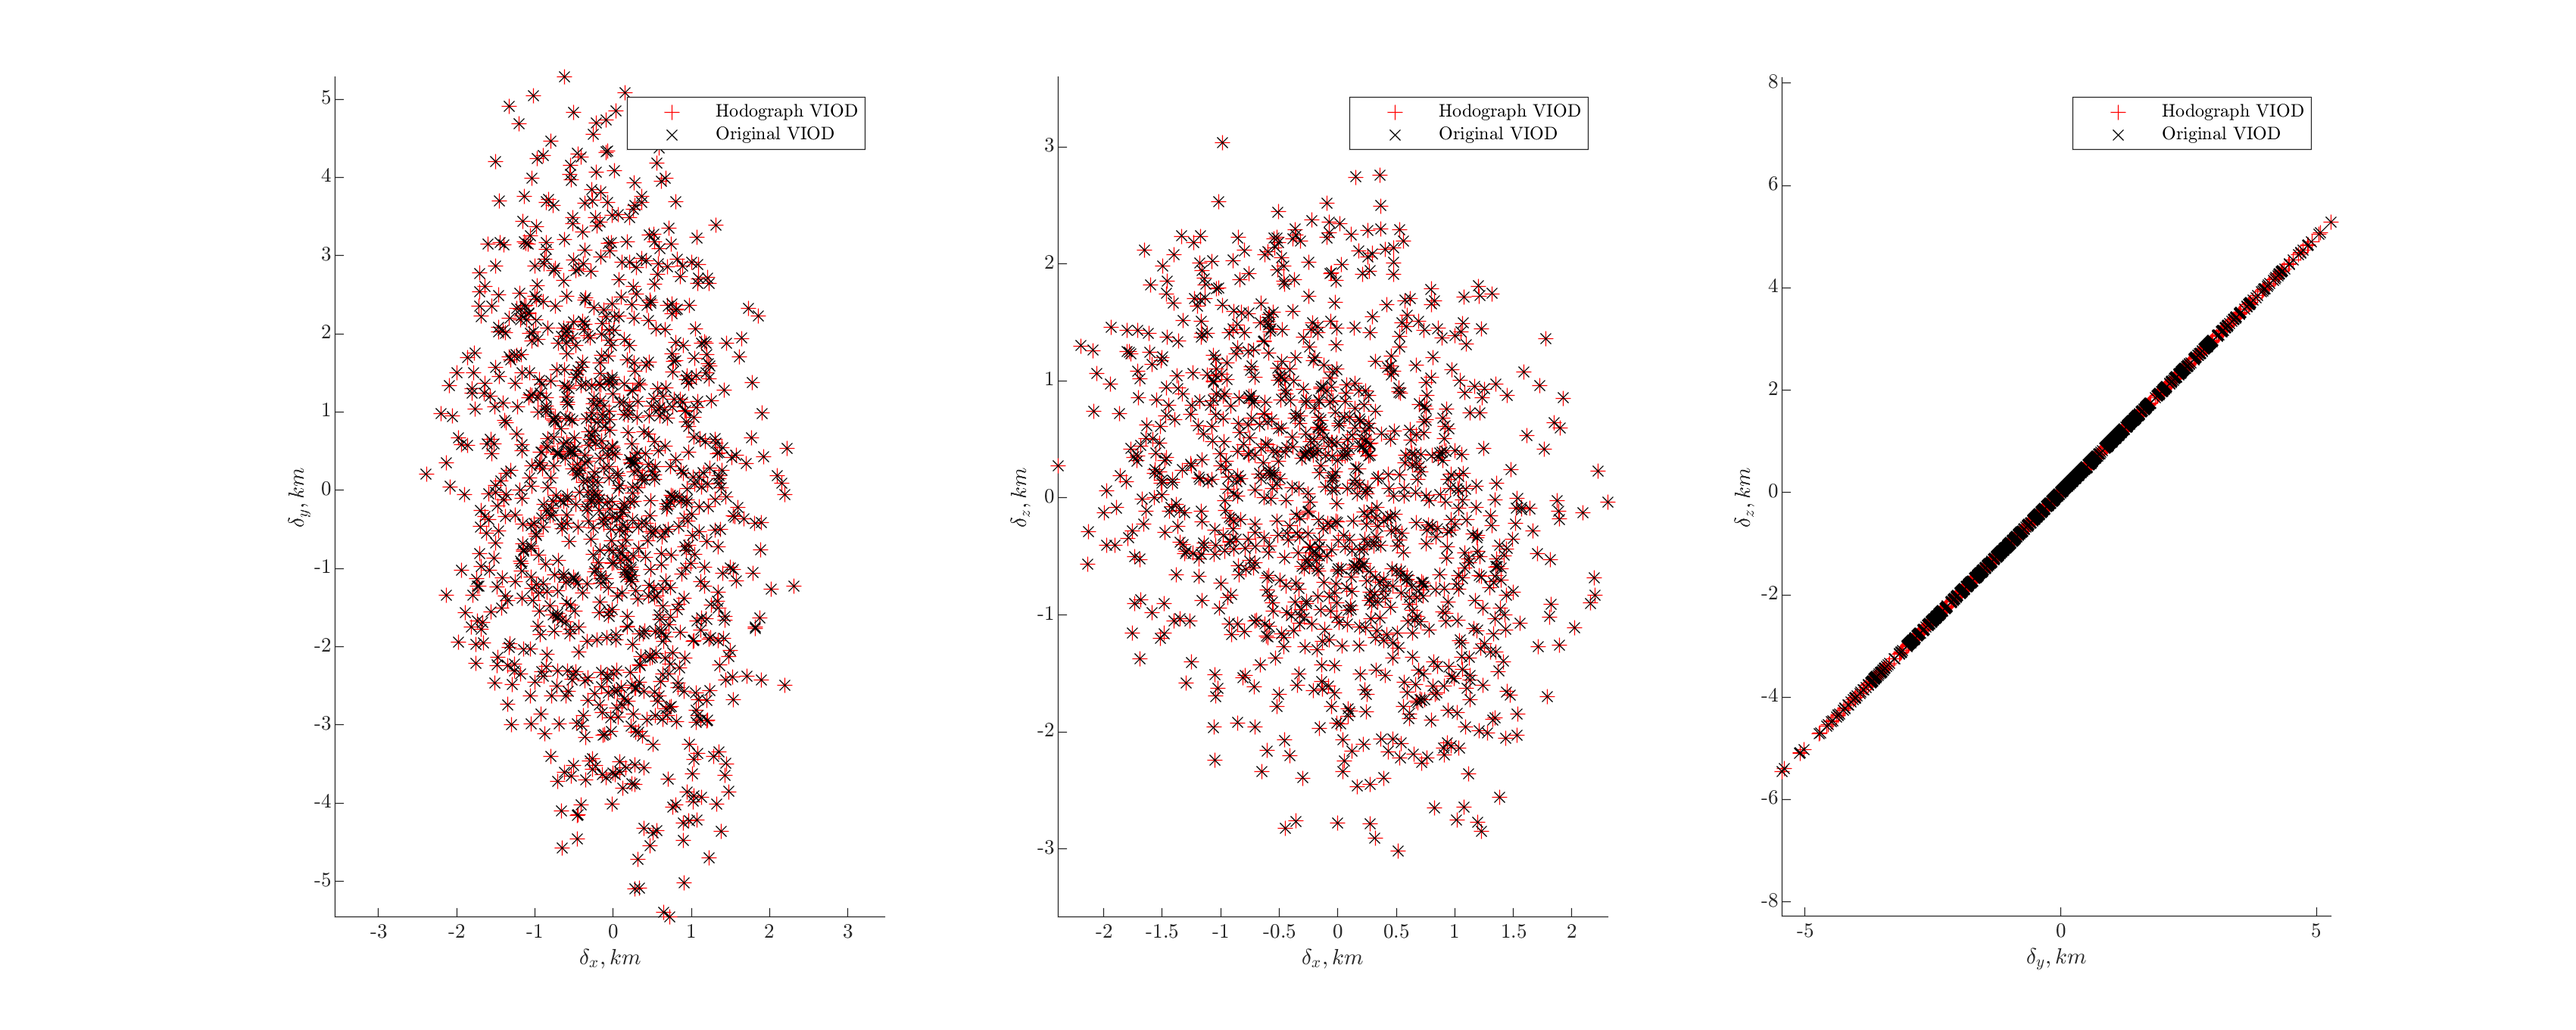
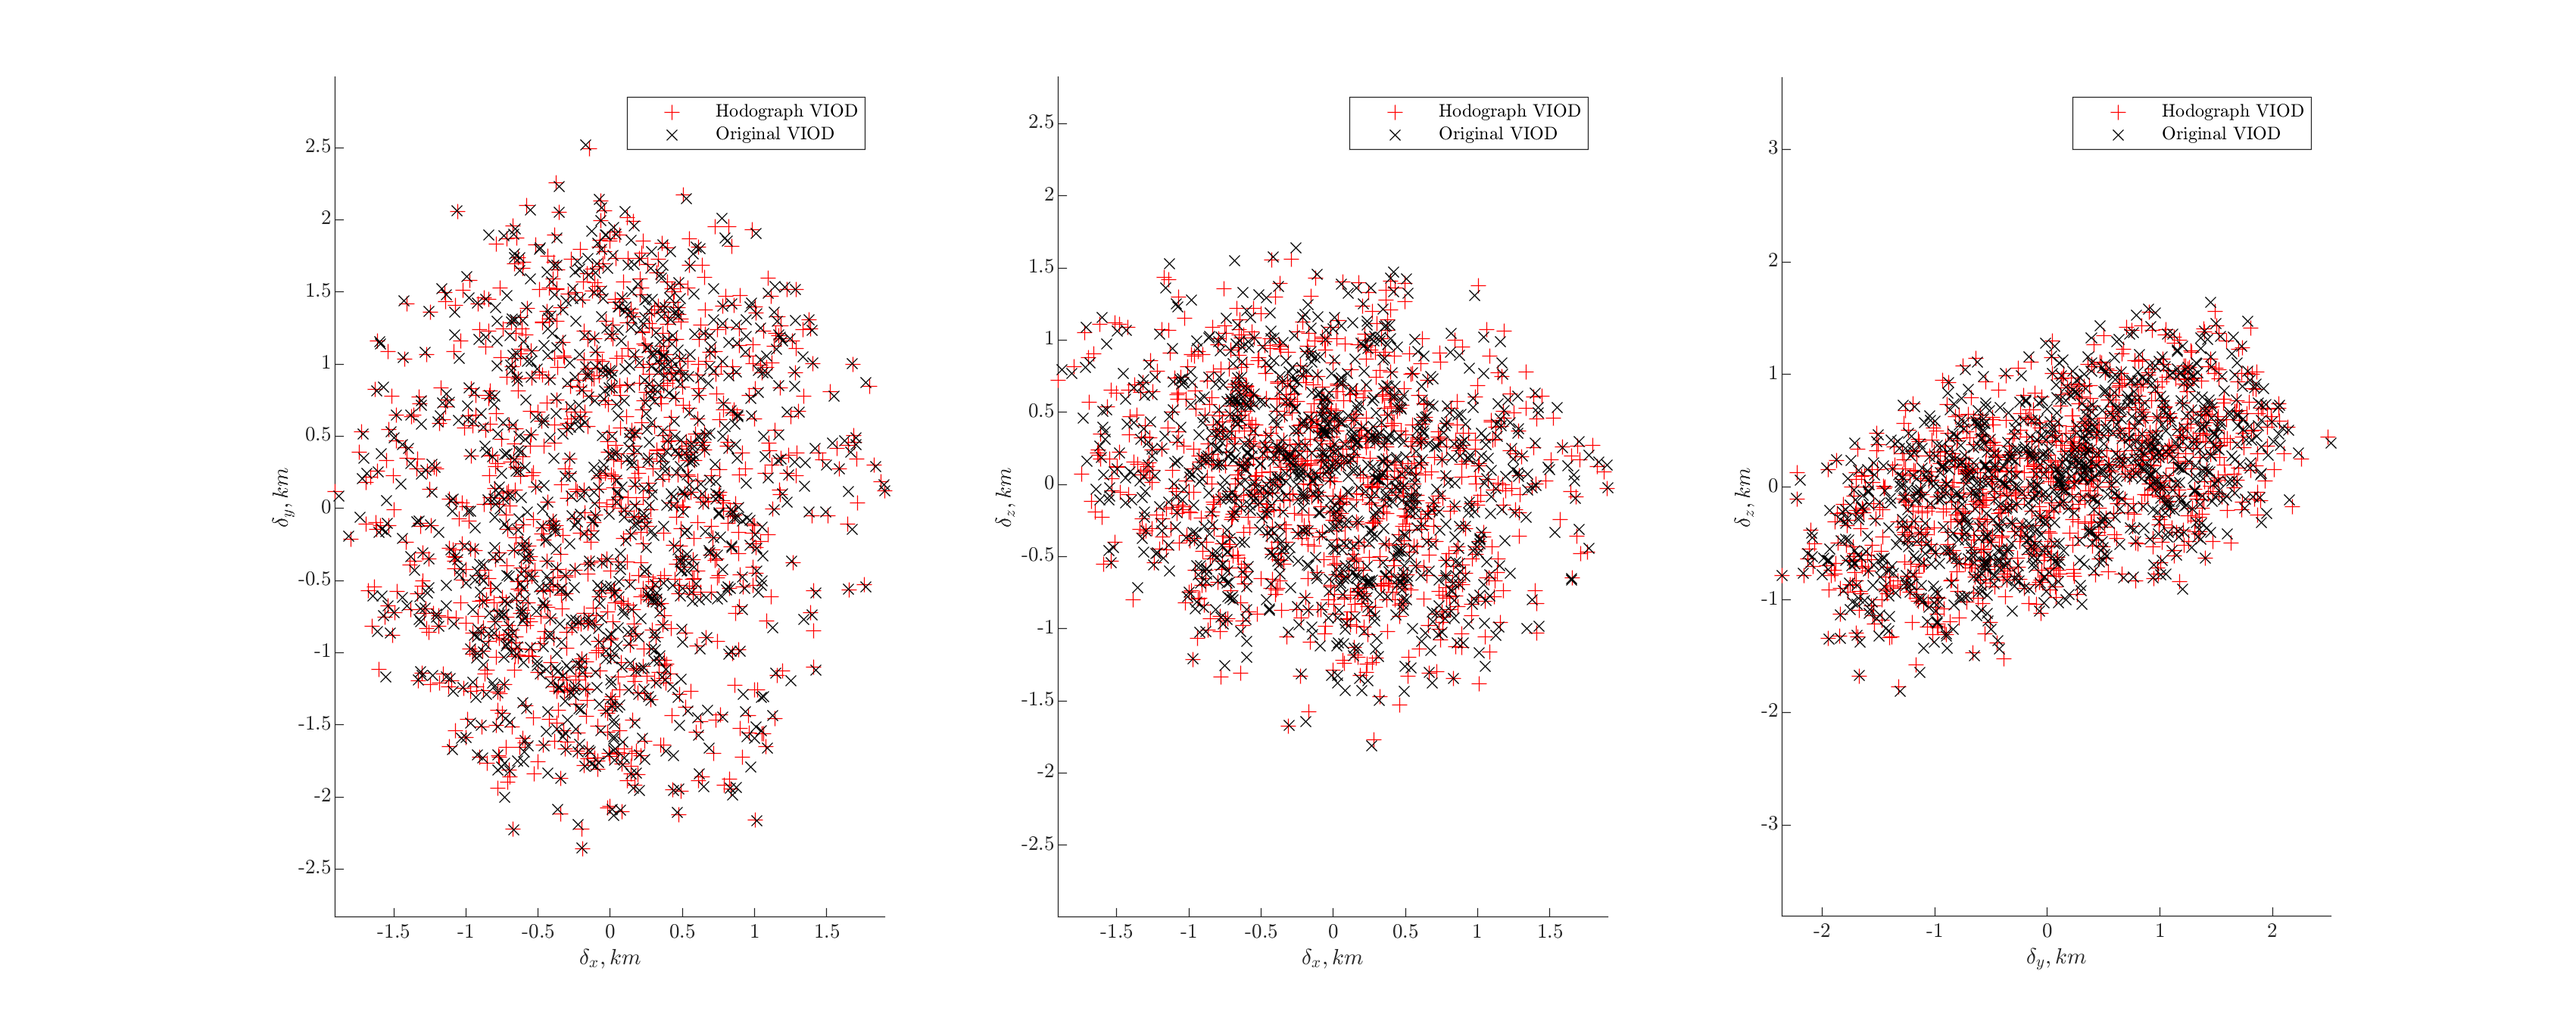
Fixed error in error plot, created MATLAB-GMAT function interface, created multirev test case

diff --git a/viod_gmat/viod.m b/viod_gmat/viod.m
@@ -9,8 +9,9 @@ function [r] = viod(N,mu)
 %   collected at different points in the orbit.
 %
 % Limitations:
-%   - Assumes measurements are taken within half a revolution.
 %   - Assumes the measurements are provided in order.
+%   - Assumes 50%+ of adjacent measurements are less than half an orbit
+%   away from each other
 %
 % Arguments:
 %   N:      [km/s]      N-by-3 matrix containing N velocity vectors
@@ -39,10 +40,13 @@ B = zeros(comb_n*4,1);               % RHS matrix of eq. 36, see line 6
 k = V(:,end);
 
 % check if orbit plane normal is in the right direction
-% --- we do this be knowing all velocities are in order and within
-% --- half a revolution. therefore the cross product of the first and last
-% --- measurements should be in the direction of the orbit normal.
-if dot(k,cross(N(1,:),N(end,:))') < 0
+% we assume more than half of the measurements are taken less than half an
+% orbit apart from its adjacent measurements.
+kEst = zeros(1,3);
+for i = 1:size(N,1)-1
+    kEst = kEst + cross(N(i,:),N(i+1,:));
+end
+if dot(k,kEst') < 0
     k = -k;
 end
 

diff --git a/viod_gmat/hodo_od.m b/viod_gmat/hodo_od.m
@@ -9,8 +9,9 @@ function [r] = hodo_od(N,mu)
 %   three velocity vectors collected at different points in orbit.
 %
 % Limitations:
-%   - Assumes measurements are taken within half a revolution.
 %   - Assumes the measurements are provided in order.
+%   - Assumes 50%+ of adjacent measurements are less than half an orbit
+%   away from each other
 %
 % Arguments:
 %   N:      [km/s]      N-by-3 matrix containing N velocity vectors
@@ -28,10 +29,13 @@ N = vclean(N);
 k = V(:,end);
 
 % check if orbit plane normal is in the right direction
-% --- we do this by knowing all velocities are in order and within
-% --- half a revolution. therefore the cross product of the first and last
-% --- measurements should be in the direction of the orbit normal.
-if dot(k,cross(N(1,:),N(end,:))') < 0
+% we assume more than half of the measurements are taken less than half an
+% orbit apart from its adjacent measurements.
+kEst = zeros(1,3);
+for i = 1:size(N,1)-1
+    kEst = kEst + cross(N(i,:),N(i+1,:));
+end
+if dot(k,kEst') < 0
     k = -k;
 end
 

diff --git a/viod_gmat/monteScatter.m b/viod_gmat/monteScatter.m
@@ -1,4 +1,4 @@
-function [r] = monteScatter(v,mu,noise,rRef,itr,idx,bias)
+function [r,runTime] = monteScatter(v,mu,noise,rRef,itr,idx,bias)
 %MONTESCATTER Generates a scatter plot od OD errors from Monte Carlo sims
 %
 % Author: 
@@ -21,6 +21,8 @@ function [r] = monteScatter(v,mu,noise,rRef,itr,idx,bias)
 % Outputs:
 %   Scatter plot of OD errors.
 
+
+tic
 
 latexify
 r2_vect = nan(itr,3);
@@ -54,6 +56,8 @@ xlabel('$\delta_x, km$')
 ylabel('$\delta_y, km$')
 zlabel('$\delta_z, km$')
 latexify
+
+runTime = toc;
 
 end
 

diff --git a/viod_gmat/monteScatter_compare.m b/viod_gmat/monteScatter_compare.m
@@ -74,8 +74,8 @@ legend('Hodograph VIOD','Original VIOD')
 
 subplot(1,3,3)
 hold on
-scatter(r2_vect_hodo(:,2),r2_vect_hodo(:,2),'r+');
-scatter(r2_vect_orig(:,2),r2_vect_orig(:,2),'kx');
+scatter(r2_vect_hodo(:,2),r2_vect_hodo(:,3),'r+');
+scatter(r2_vect_orig(:,2),r2_vect_orig(:,3),'kx');
 hold off
 axis equal
 xlabel('$\delta_y, km$')

diff --git a/viod_gmat/matEval.m b/viod_gmat/matEval.m
@@ -1,0 +1,15 @@
+function out = matEval(command,varargin)
+%MATEVAL Gives GMAT access to the MATLAB suite of operators and functions.
+%
+% Author:
+%   Tiger Hou
+%
+
+for index_ = 1:nargin-1
+    assignin('caller',inputname(index_+1),varargin{index_});
+end
+
+out = evalin('caller',command);
+
+end
+
